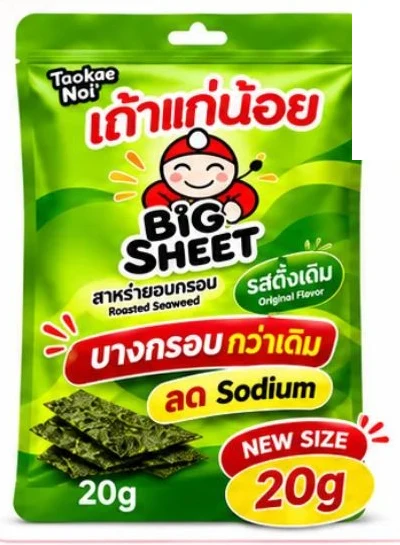
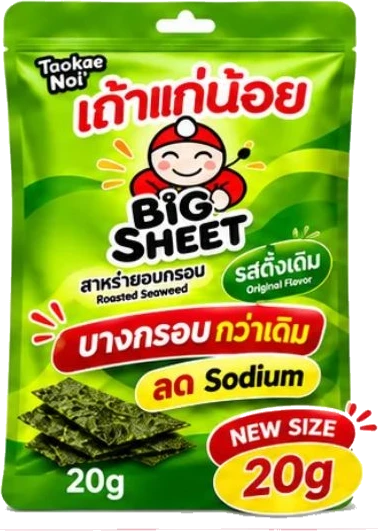
ตัดพื้นหลังขาวรอบรูปซองสินค้า และใช้เงาตามรูปทรงซอง

diff --git a/app/globals.css b/app/globals.css
@@ -1622,3 +1622,14 @@ button {
     justify-content: center;
   }
 }
+
+/* ซองสินค้าแบบพื้นโปร่งใส: เงาตามรูปทรงซอง ไม่ใช่กรอบสี่เหลี่ยม */
+.hero__pack,
+.showcase__pack {
+  border-radius: 0;
+  box-shadow: none;
+  filter: drop-shadow(0 24px 28px rgba(0, 0, 0, 0.35));
+}
+.showcase__pack {
+  filter: drop-shadow(0 22px 24px rgba(0, 0, 0, 0.3));
+}
